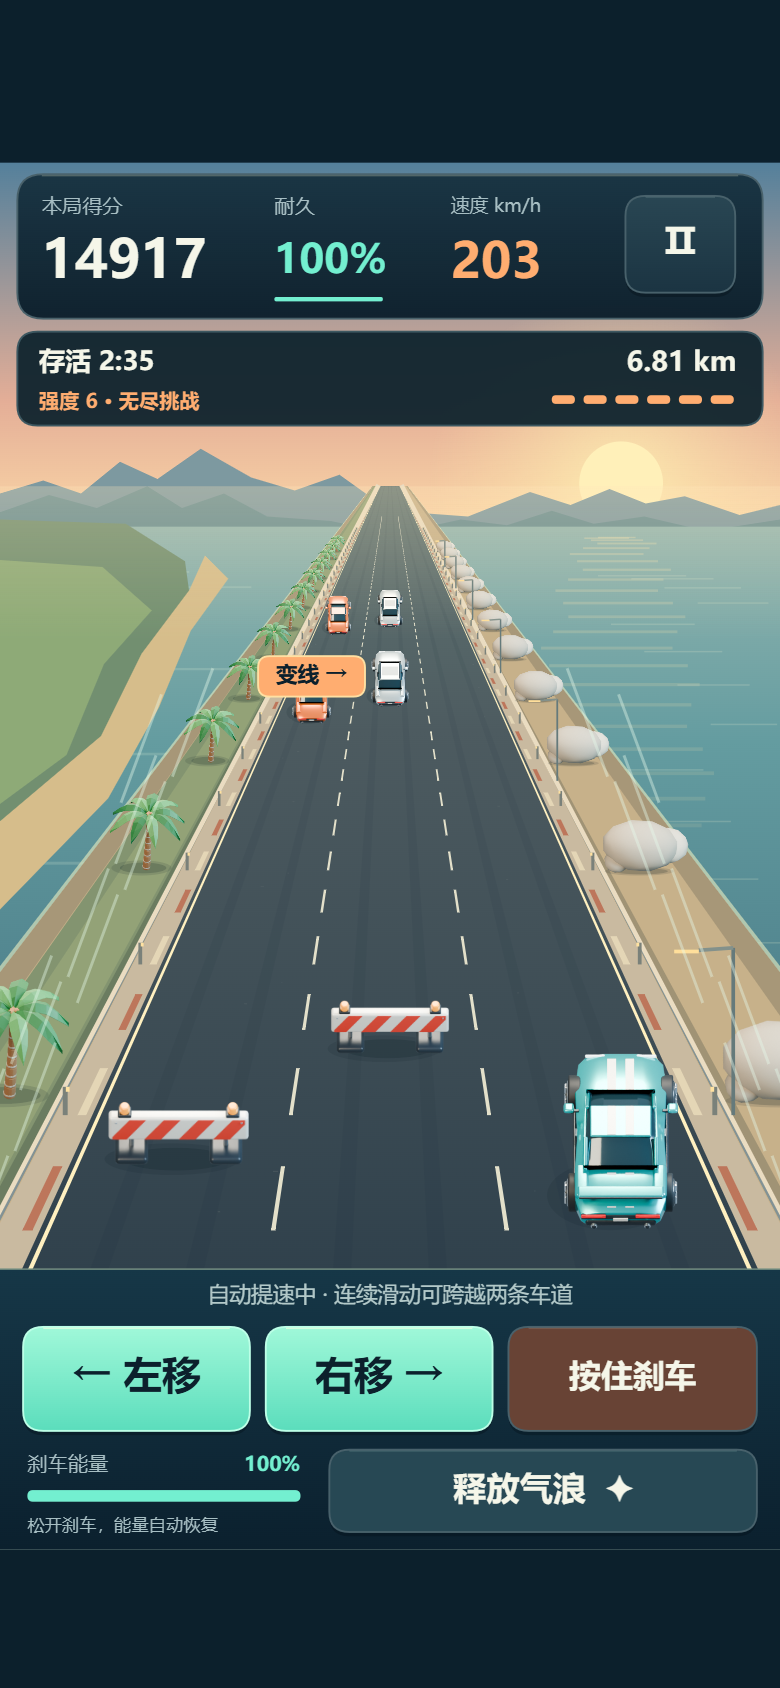
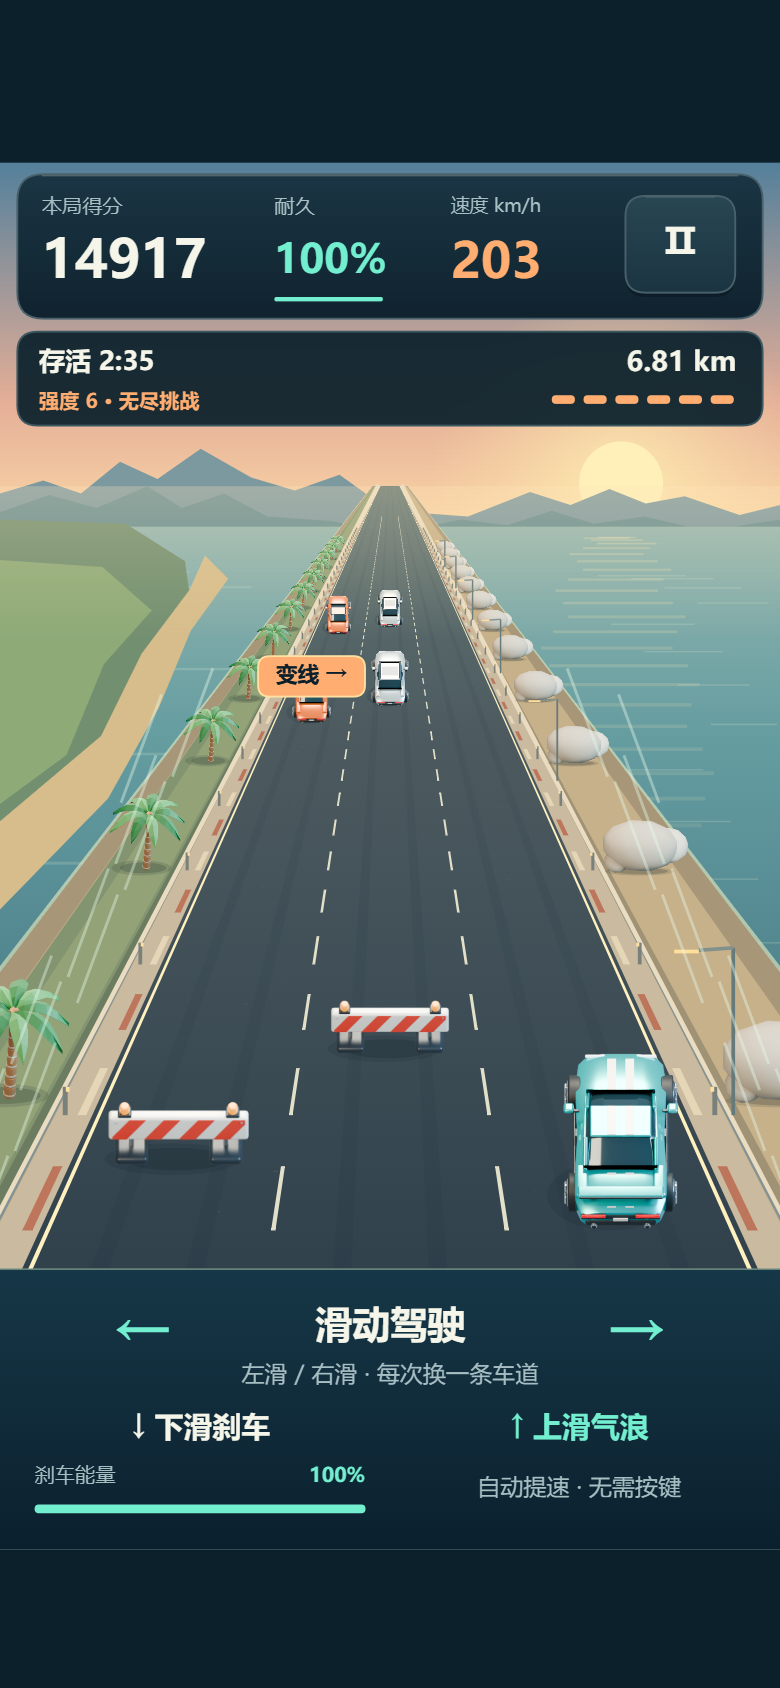
Replace driving buttons with directional swipe controls

Changed region(s): [[0.0308, 0.7393, 0.9846, 0.9242]]

diff --git a/公路之王/src/game-app.js b/公路之王/src/game-app.js
@@ -12,6 +12,7 @@ class RoadKingApp {
     this.scale=Math.min(p.width/W,(p.height-p.top-p.bottom)/H);
     this.ox=(p.width-W*this.scale)/2;this.oy=p.top+(p.height-p.top-p.bottom-H*this.scale)/2;
     this.buttons=[];this.touchMap={};this.keyboard={};this.queuedLane=null;this.clock=0;this.shake=0;this.newBest=false;
+    this.gestureBrake=0;
     // Blender renders are optional at startup: a missing image keeps its vector fallback.
     this.art={};this.artLoaded=0;this.artErrors=[];
     const assets=['car-player','car-silver','car-blue','car-orange','barrier','tree','rock','hero'];
@@ -22,7 +23,7 @@ class RoadKingApp {
     p.touches(e=>this.touchStart(e),e=>this.touchMove(e),e=>this.touchEnd(e),()=>this.releaseHolds());
     p.lifecycle(()=>{this.releaseHolds();this.game.pause();p.stopSound();},()=>{this.last=p.now();});
     this.last=p.now();
-    this.tick=()=>{const now=p.now(),dt=Math.min(.1,Math.max(0,(now-this.last)/1000));this.last=now;this.clock+=dt;this.game.update(dt);this.flushLane();this.shake=Math.max(0,this.shake-dt*2);this.draw();p.frame(this.tick);};
+    this.tick=()=>{const now=p.now(),dt=Math.min(.1,Math.max(0,(now-this.last)/1000));this.last=now;this.clock+=dt;this.update(dt);this.shake=Math.max(0,this.shake-dt*2);this.draw();p.frame(this.tick);};
     p.frame(this.tick);
   }
   onEvent(type,data={}){
@@ -35,7 +36,16 @@ class RoadKingApp {
     }
   }
   start(){this.releaseHolds();this.newBest=false;this.game.start(0);}
-  releaseHolds(){this.touchMap={};this.keyboard={};this.queuedLane=null;if(this.p.clearKeys)this.p.clearKeys();this.game.setBrake(false);this.game.setThrottle(false);}
+  releaseHolds(){this.touchMap={};this.keyboard={};this.queuedLane=null;this.gestureBrake=0;if(this.p.clearKeys)this.p.clearKeys();this.game.setBrake(false);this.game.setThrottle(false);}
+  update(dt){
+    if(!Number.isFinite(dt)||dt<=0)return;
+    let remaining=dt;
+    while(remaining>1e-8&&this.game.mode==='playing'){
+      const step=Math.min(remaining,.05,this.gestureBrake>1e-8?this.gestureBrake:Infinity);
+      this.game.update(step);this.flushLane();
+      this.gestureBrake=Math.max(0,this.gestureBrake-step);this.updateHolds();remaining-=step;
+    }
+  }
   changeLane(direction){
     if(this.game.mode!=='playing')return;
     const target=this.queuedLane==null?this.game.lane:this.queuedLane;
@@ -56,23 +66,31 @@ class RoadKingApp {
     (e.changedTouches||e.touches||[]).forEach(t=>{
       const pt=this.point(t),b=this.buttons.slice().reverse().find(b=>!b.disabled&&this.inside(pt,b)),id=t.identifier==null?0:t.identifier;
       if(b){this.touchMap[id]={button:b,pt};if(b.hold)this.updateHolds();else{b.action();this.draw();}}
-      else this.touchMap[id]={pt,swipe:this.game.mode==='playing'&&pt.y>185&&pt.y<764};
+      else if(this.game.mode==='playing'&&pt.x>=0&&pt.x<=W&&pt.y>=185&&pt.y<=H&&!Object.values(this.touchMap).some(item=>item.swipe))this.touchMap[id]={pt,swipe:true,axis:null,used:false};
     });
   }
   touchMove(e){
     (e.changedTouches||e.touches||[]).forEach(t=>{
       const id=t.identifier==null?0:t.identifier,item=this.touchMap[id];if(!item)return;const pt=this.point(t);
       if(item.button&&item.button.hold&&!this.inside(pt,item.button)){delete this.touchMap[id];this.updateHolds();}
-      // Move the anchor after every lane: a single swipe can cross two lanes and reverse.
-      if(item.swipe&&this.game.mode==='playing'){
-        const threshold=38;
-        while(Math.abs(pt.x-item.pt.x)>=threshold){const dir=pt.x>item.pt.x?1:-1;this.changeLane(dir);item.pt.x+=dir*threshold;}
-        item.pt.y=pt.y;
+      // Lock to the dominant direction; each deliberate swipe performs one action.
+      if(item.swipe&&!item.used&&this.game.mode==='playing'){
+        const dx=pt.x-item.pt.x,dy=pt.y-item.pt.y,threshold=Math.max(36,22/this.scale);
+        if(!item.axis){
+          if(Math.abs(dx)>=threshold&&Math.abs(dx)>Math.abs(dy)*1.15)item.axis='x';
+          else if(Math.abs(dy)>=threshold&&Math.abs(dy)>Math.abs(dx)*1.15)item.axis='y';
+        }
+        if(item.axis){
+          item.used=true;
+          if(item.axis==='x')this.changeLane(Math.sign(dx));
+          else if(dy>0){this.gestureBrake=.85;this.updateHolds();}
+          else this.game.pulse();
+        }
       }
     });
   }
   touchEnd(e){(e.changedTouches||[]).forEach(t=>{delete this.touchMap[t.identifier==null?0:t.identifier];});this.updateHolds();}
-  updateHolds(){const a=Object.keys(this.touchMap).map(k=>this.touchMap[k]);this.game.setBrake(!!this.keyboard.brake||a.some(i=>i.button&&i.button.hold==='brake'));this.game.setThrottle(!!this.keyboard.throttle||a.some(i=>i.button&&i.button.hold==='throttle'));}
+  updateHolds(){this.game.setBrake(!!this.keyboard.brake||this.gestureBrake>1e-8);this.game.setThrottle(!!this.keyboard.throttle);}
   toggleSound(){this.muted=!this.muted;this.p.write('roadking.muted.v1',this.muted);if(this.muted)this.p.stopSound();}
 
   rr(x,y,w,h,r,fill,stroke){
@@ -198,7 +216,7 @@ class RoadKingApp {
     this.txt('越开越快',29,287,26,C.white,'bold');this.txt('越躲越险',29,327,26,C.white,'bold');this.line(30,355,65,355,C.orange,3);this.txt('下一公里，',29,385,16,'#d2ded4');this.txt('由你的反应决定。',29,409,16,'#d2ded4');
     if(this.art.hero){this.groundShadow(355,439,130,21);c.drawImage(this.art.hero,158,215,388,259);}else this.car(398,412,1.65,C.cyan,true,false);
     this.rr(24,458,492,91,17,'rgba(23,51,63,.96)','#476069');this.txt('个人最高分',43,482,14,C.mute);this.txt(Math.round(this.best.score),43,519,37,C.cyan,'bold');this.txt('最远 '+distance(this.best.distance),493,486,17,C.white,'bold','right');this.txt('最长 '+duration(this.best.elapsed),493,518,16,C.mute,'normal','right');
-    const tips=[['01','自动提速','越开越快，提前观察远处车流。'],['02','连续闪避','左右滑动换道，穿过安全空隙。'],['03','把握节奏','短按刹车，气浪推车，路障需绕行。']];
+    const tips=[['01','自动提速','越开越快，提前观察远处车流。'],['02','左右滑动','每次滑动换一条车道，连续滑动闪避。'],['03','上下滑动','下滑短时刹车，上滑释放气浪。']];
     tips.forEach((tip,i)=>{const y=581+i*58;this.rr(29,y-9,30,29,8,'#263e48');this.txt(tip[0],44,y+6,13,C.orange,'bold','center');this.txt(tip[1],78,y,19,C.white,'bold');this.txt(tip[2],78,y+26,16,C.mute);});
     this.button(24,775,492,76,'开始挑战  →',()=>this.start(),{primary:true,size:28});this.txt('车流越来越密 · 活得越久，得分越高',270,878,16,C.white,'normal','center');
     this.button(24,904,148,35,this.muted?'音效：关':'音效：开',()=>this.toggleSound(),{size:14,radius:9});this.txt('单局无尽 · 随时再来一局',515,922,14,C.mute,'normal','right');
@@ -211,10 +229,11 @@ class RoadKingApp {
     for(let i=0;i<6;i++)this.rr(382+i*22,161,16,6,3,i<difficulty.tier?danger?C.orange:C.cyan:'#3a515b');
     if(playing&&g.messageTimer>0&&g.message){const message=String(g.message);this.rr(20,199,500,42,12,'rgba(10,27,38,.93)');this.txt(message,270,220,message.length>27?13:16,C.white,'bold','center');}
     if(playing&&g.elapsed<7){this.rr(111,276,318,42,12,'rgba(10,27,38,.88)');this.txt('← 左右滑动，连续闪避 →',270,297,18,C.white,'bold','center');}
-    const controls=c.createLinearGradient(0,766,0,H);controls.addColorStop(0,'#163747');controls.addColorStop(1,'#0b202e');c.fillStyle=controls;c.fillRect(0,766,W,194);this.line(0,766,W,766,'#769082');this.txt('自动提速中 · 连续滑动可跨越两条车道',270,785,15,'#b3c9c9','normal','center');
-    this.button(16,806,157,72,'← 左移',()=>this.changeLane(-1),{disabled:!playing,primary:true,size:27});this.button(184,806,157,72,'右移 →',()=>this.changeLane(1),{disabled:!playing,primary:true,size:27});this.button(352,806,172,72,g.brakeLocked?'松开恢复':'按住刹车',()=>{},{key:'brake',disabled:!playing,hold:'brake',fill:'#684335',size:22});
-    const energy=g.brakeEnergy==null?100:g.brakeEnergy;this.txt('刹车能量',19,902,14,C.mute);this.txt(Math.round(energy)+'%',208,902,14,g.brakeLocked?C.orange:C.cyan,'bold','right');this.rr(19,919,189,8,4,'#304952');if(energy>0)this.rr(19,919,Math.max(1,189*energy/100),8,4,g.brakeLocked?C.orange:C.cyan);this.txt('松开刹车，能量自动恢复',19,944,12,C.mute);
-    this.button(228,891,296,57,g.pulseCooldown>0?'气浪 · '+Math.ceil(g.pulseCooldown)+'s':'释放气浪  ✦',()=>g.pulse(),{disabled:!playing||g.pulseCooldown>0,fill:'#274854',size:23});
+    const controls=c.createLinearGradient(0,766,0,H);controls.addColorStop(0,'#163747');controls.addColorStop(1,'#0b202e');c.fillStyle=controls;c.fillRect(0,766,W,194);this.line(0,766,W,766,'#769082');
+    this.txt('←',99,814,39,C.cyan,'bold','center');this.txt('滑动驾驶',270,807,26,C.white,'bold','center');this.txt('→',441,814,39,C.cyan,'bold','center');this.txt('左滑 / 右滑 · 每次换一条车道',270,840,16,C.mute,'normal','center');
+    this.txt(this.gestureBrake>0?'↓ 正在刹车':'↓ 下滑刹车',139,877,20,this.gestureBrake>0?C.orange:C.white,'bold','center');this.txt(g.pulseCooldown>0?'↑ 气浪 '+Math.ceil(g.pulseCooldown)+'s':'↑ 上滑气浪',401,877,20,g.pulseCooldown>0?C.mute:C.cyan,'bold','center');
+    const energy=g.brakeEnergy==null?100:g.brakeEnergy;this.txt('刹车能量',24,910,14,C.mute);this.txt(Math.round(energy)+'%',253,910,14,C.cyan,'bold','right');this.rr(24,929,229,6,3,'#304952');if(energy>0)this.rr(24,929,Math.max(1,229*energy/100),6,3,C.cyan);
+    this.txt('自动提速 · 无需按键',401,918,16,C.mute,'normal','center');
   }
   scrim(){this.ctx.fillStyle='rgba(3,12,19,.83)';this.ctx.fillRect(0,0,W,H);this.buttons=[];}
   drawPause(){
@@ -226,7 +245,7 @@ class RoadKingApp {
     this.txt('本局得分',270,354,16,C.mute,'normal','center');this.txt(Math.round(g.score),270,405,62,C.cyan,'bold','center');this.txt('最高分 '+Math.round(this.best.score),270,455,17,this.newBest?C.orange:C.mute,'bold','center');
     const stats=[['行驶距离',distance(g.distance)],['存活时间',duration(g.elapsed)],['最高时速',Math.round(g.maxSpeed||g.speed)+' km/h'],['成功躲避',number(g.dodged)+' 次']];
     stats.forEach((stat,i)=>{const x=i%2===0?150:390,y=i<2?507:591;this.txt(stat[0],x,y,15,C.mute,'normal','center');this.txt(stat[1],x,y+34,27,C.white,'bold','center');});
-    this.button(50,672,440,66,'再挑战一次  →',()=>this.start(),{primary:true,size:25});this.button(50,757,440,51,'返回首页',()=>{this.releaseHolds();this.game.menu();},{size:19});this.txt('观察远处空隙，提前换道，短按刹车。',270,872,17,C.mute,'normal','center');
+    this.button(50,672,440,66,'再挑战一次  →',()=>this.start(),{primary:true,size:25});this.button(50,757,440,51,'返回首页',()=>{this.releaseHolds();this.game.menu();},{size:19});this.txt('提前左右滑动，下滑刹车，上滑解围。',270,872,17,C.mute,'normal','center');
   }
 }
 module.exports=RoadKingApp;

diff --git a/tests/game-app.test.js b/tests/game-app.test.js
@@ -1,0 +1,16 @@
+const test=require('node:test');
+const assert=require('node:assert/strict');
+const App=require('../公路之王/src/game-app');
+function fixture(){
+ const p={width:540,height:960,top:0,bottom:0,canvas:{getContext:()=>({})},read:()=>null,write(){},now:()=>0,frame(){},loadImage:()=>Promise.resolve({}),touches(...handlers){this.handlers=handlers},lifecycle(...handlers){this.life=handlers},stopSound(){},sound(){},vibrate(){}};
+ const a=new App(p);a.start();
+ const event=(x,y,id=1)=>({changedTouches:[{clientX:x,clientY:y,identifier:id}]});
+ const swipe=(dx,dy,y=540)=>{a.touchStart(event(270,y));a.touchMove(event(270+dx,y+dy));a.touchEnd(event(270+dx,y+dy));};
+ return {a,p,event,swipe};
+}
+test('tap and small diagonal motion do not change lanes',()=>{const {a,swipe}=fixture();swipe(10,10);swipe(60,60);assert.equal(a.game.lane,0);assert.equal(a.game.pulseCooldown,0);});
+test('long swipe changes one lane; subsequent swipe can queue next lane',()=>{const {a,event,swipe}=fixture();a.touchStart(event(270,540));a.touchMove(event(180,540));a.touchMove(event(60,540));assert.equal(a.game.lane,-1);a.touchEnd(event(60,540));swipe(100,0);swipe(100,0);a.update(.5);assert.equal(a.game.lane,1);});
+test('footer down swipe brakes briefly after finger lifts then releases',()=>{const {a,swipe}=fixture();swipe(0,60,850);assert.equal(a.game.brake,true);a.update(.8);assert.equal(a.game.brake,true);a.update(.1);assert.equal(a.game.brake,false);assert.ok(a.game.brakeEnergy<100);});
+test('up swipe activates pulse and cooldown rejects repeated swipe',()=>{const {a,swipe}=fixture();swipe(0,-80);assert.equal(a.game.pulseCooldown,10);a.update(.1);swipe(0,-80);assert.ok(a.game.pulseCooldown<10);});
+test('secondary fingers do not issue gestures and cancel releases braking',()=>{const {a,p,event}=fixture();a.touchStart(event(270,540,1));a.touchStart(event(270,540,2));a.touchMove(event(370,540,2));assert.equal(a.game.lane,0);a.touchMove(event(270,640,1));assert.equal(a.game.brake,true);p.handlers[3]();assert.equal(a.game.brake,false);assert.equal(a.gestureBrake,0);});
+test('background clears queued lane and swipe brake before pausing',()=>{const {a,p,swipe}=fixture();swipe(0,80);p.life[0]();assert.equal(a.game.mode,'paused');assert.equal(a.game.brake,false);assert.equal(a.queuedLane,null);a.update(2);assert.equal(a.game.elapsed,0);});

diff --git a/preview/index.html b/preview/index.html
@@ -17,9 +17,10 @@
   </style>
 </head>
 <body>
-  <header><strong>公路之王 · 无尽挑战</strong><br>← / → 或 A / D 换道 · ↓ / 空格刹车 · F 气浪 · Esc 暂停 · 自动提速</header>
+  <header><strong>公路之王 · 无尽挑战</strong><br>左右滑动换道 · 下滑短刹 · 上滑气浪 · 自动提速</header>
   <canvas id="game" aria-label="公路之王游戏画布" tabindex="0"></canvas>
   <pre id="error" role="alert"></pre>
   <script src="/preview/browser-platform.js"></script>
 </body>
 </html>
+

diff --git a/tools/package_douyin_demo.py b/tools/package_douyin_demo.py
@@ -29,7 +29,7 @@ files.extend(root / p for p in (
 ))
 files.extend(p for p in (root / 'research/blender-preview').glob('*') if p.suffix in ('.json', '.png'))
 assert all(p.is_file() for p in files), 'Missing delivery input'
-archive = target / '公路之王_Blender美术版.zip'
+archive = target / '公路之王_滑动操作版.zip'
 with zipfile.ZipFile(archive, 'w', zipfile.ZIP_DEFLATED) as z:
     for p in sorted(set(files)):
         z.write(p, p.relative_to(root).as_posix())
@@ -53,9 +53,10 @@ report = {
     'files':names,
     'zipIntegrity':'passed',
     'platform':'Douyin native Canvas 2D with Blender prerendered PNG assets',
-    'verification':'19 Node tests; Blender model/render outputs and shared-code browser asset/input checks. See research/blender-preview and README for scope.',
+    'verification':'25 Node tests; Blender model/render outputs and shared-code browser asset/input checks. See research/blender-preview and README for scope.',
     'notVerified':['Blender art version in Douyin IDE simulator','Android/iOS phone','live upload and publication','phone performance','audio listening'],
 }
 (target / 'delivery-manifest.json').write_text(json.dumps(report,ensure_ascii=False,indent=2),encoding='utf-8')
 print(json.dumps({k:v for k,v in report.items() if k!='files'},ensure_ascii=False))
 print('Files:',len(names))
+

diff --git a/公路之王/README.md b/公路之王/README.md
@@ -12,15 +12,15 @@
 
 | 操作 | 手机触控 | 浏览器键盘 |
 | --- | --- | --- |
-| 左右换道 | 点击大号左右按钮，或在公路区域左右滑动 | A / D 或 ← / → |
-| 应急刹车 | 按住刹车，消耗能量；松开恢复 | S / ↓ / 空格 |
+| 左右换道 | 左右滑动，每次换一条车道 | A / D 或 ← / → |
+| 应急刹车 | 向下滑动，短刹 0.85 秒后自动松开 | S / ↓ / 空格 |
 | 加速 | 自动巡航持续提速，无需按键 | W / ↑ 可额外加速 |
-| 气浪解围 | 点击气浪，推开近前障碍 | F |
+| 气浪解围 | 向上滑动，推开近前车辆 | F |
 | 暂停/继续 | 右上角暂停按钮 | Esc |
 | 开始/再挑战 | 首页或结算页主按钮 | Enter |
 | 立即重开 | 暂停页重新开始 | R |
 
-换道不消耗能量，快速长滑动可连续跨两条车道。刹车耗尽后必须松开，不能一直长按维持低速；后期刹车也不能降回开局车速。气浪冷却 10 秒，只推开近前车辆，固定路障仍需换道。离开页面或切到后台会暂停并释放按住的操作，回来后手动继续。
+公路和底部提示区都支持滑动，没有驾驶操作按钮。每次滑动只触发一次操作，连续两次左右滑动可跨两条车道。换道不消耗能量，下滑短刹消耗能量，自动松开后恢复；后期刹车也不能降回开局车速。气浪冷却 10 秒，只推开近前车辆，固定路障仍需换道。离开页面或切到后台会暂停并释放按住的操作，回来后手动继续。
 
 ## 无尽规则
 
@@ -43,7 +43,7 @@ node preview/serve.js 4179
 
 访问 [http://127.0.0.1:4179/](http://127.0.0.1:4179/)。若端口已有服务，直接访问并刷新。浏览器与抖音环境加载同一份 `game-core.js` 和 `game-app.js`。浏览器预览工具不需要放入抖音发布包。
 
-规则与平台测试 **19/19 通过**。覆盖无尽规则及资源加载、缓存与缺图重试；6 个随机种子各驾驶 360 秒，只观察可见车流并换道，全部零碰撞。Blender 新画面的浏览器验证脚本为 `tools/verify_blender_preview.cjs`，使用本机已有 Playwright 与 Chrome，截图和报告输出至 `research/blender-preview/`。
+规则与平台测试 **25/25 通过**。覆盖无尽规则及资源加载、缓存与缺图重试；6 个随机种子各驾驶 360 秒，只观察可见车流并换道，全部零碰撞。Blender 新画面的浏览器验证脚本为 `tools/verify_blender_preview.cjs`，使用本机已有 Playwright 与 Chrome，截图和报告输出至 `research/blender-preview/`。
 
 本次验证范围为 Node 规则/平台测试与共享源码浏览器预览（390×844、320×568）。本次无尽修改尚未在抖音模拟器或手机真机重验，也未上传、审核或发布。`research/douyin-preview/` 中的记录与旧版 PDF 是原三关版本的历史资料。
 
@@ -57,3 +57,4 @@ node preview/serve.js 4179
 - [现行无尽模式设计](../docs/endless-mode.md)。
 
 车辆、路障和路边景观使用项目内 Blender 渲染素材，道路与界面由 Canvas 绘制，不需要在线下载素材。保留的 `RoadKingUnity/` 是历史原型，本次交付入口为本目录的抖音原生小游戏。
+

diff --git a/docs/endless-mode.md b/docs/endless-mode.md
@@ -26,7 +26,7 @@
 
 ## 应急资源
 
-刹车会消耗能量，耗尽后同一次长按不能继续降速；松开才可恢复能量。后期刹车只能短暂降低当前速度，不能回到旧版 25 km/h 持续慢行。气浪保留范围与冷却，推开近前车辆；固定路障仍需避让。普通换道始终是主要操作。
+手机驾驶采用滑动操作：左右滑动每次换一条车道，下滑短刹 0.85 秒后自动松开，上滑释放气浪。公路和底部提示区均可滑动，不再提供驾驶按钮。刹车消耗能量，自动松开后恢复能量。后期刹车只能短暂降低当前速度，不能回到旧版 25 km/h 持续慢行。气浪保留范围与冷却，推开近前车辆；固定路障仍需避让。普通换道始终是主要操作。
 
 ## 界面与纪录
 
@@ -35,3 +35,4 @@
 ## 验证
 
 规则测试覆盖长局不自动结束、难度增长、碰撞、暂停、刹车能量、重试、结算防重入、障碍通路以及多个随机种子的公共操作实跑。浏览器预览检查共享 Canvas 界面、键盘/触控、暂停和纪录持久化，包含 390×844 与 320×568 视口。实际测试结果及数值见游戏目录 README 和 `research/endless-preview/`；浏览器不等同于手机真机。
+
